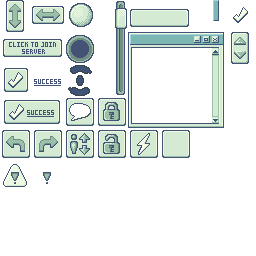
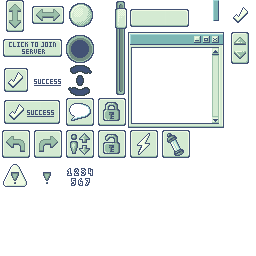
New Graphics
Finally implemented

Changed region(s): [[0.25, 0.6562, 0.375, 0.75], [0.6562, 0.5, 0.7188, 0.625], [0.2812, 0.4375, 0.3438, 0.4688]]

diff --git a/Unity/Outpost Horizon Mobile/Assets/Scripts/JScripts/Options.cs b/Unity/Outpost Horizon Mobile/Assets/Scripts/JScripts/Options.cs
@@ -1,0 +1,18 @@
+using System.Collections;
+using System.Collections.Generic;
+using UnityEngine;
+
+public class Options : MonoBehaviour
+{
+    // Start is called before the first frame update
+    void Start()
+    {
+        
+    }
+
+    // Update is called once per frame
+    void Update()
+    {
+        
+    }
+}
